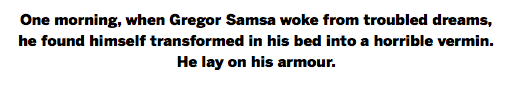
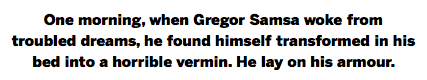
lune def 2

diff --git a/honoo---luna.html b/honoo---luna.html
@@ -13,7 +13,7 @@
   <!-- CSS -->
   <link rel="stylesheet" type="text/css" href="css/site_global.css?4202786373"/>
   <link rel="stylesheet" type="text/css" href="css/master_c-master.css?3801941747"/>
-  <link rel="stylesheet" type="text/css" href="css/honoo---luna.css?4144402783" id="pagesheet"/>
+  <link rel="stylesheet" type="text/css" href="css/honoo---luna.css?221671457" id="pagesheet"/>
   <!-- IE-only CSS -->
   <!--[if lt IE 9]>
   <link rel="stylesheet" type="text/css" href="css/nomq_preview_master_c-master.css?321525473"/>
@@ -297,21 +297,21 @@
       <div class="popup_anchor temp_no_id" data-orig-id="u17046popup">
        <div class="SlideShowContentPanel clearfix temp_no_id" data-orig-id="u17046"><!-- stack box -->
         <div class="SSSlide clip_frame grpelem temp_no_id" data-orig-id="u18558"><!-- image -->
-         <img class="block ImageInclude temp_no_id" data-src="images/foto7-crop-u185587.jpg" data-hidpi-src="images/foto7-crop-u18558_2x7.jpg" src="images/blank.gif" alt="" data-width="512" data-height="512" data-orig-id="u18558_img"/>
+         <img class="block ImageInclude temp_no_id" data-src="images/foto7-crop-u185587.jpg" data-hidpi-src="images/foto7-crop-u18558_2x7.jpg" src="images/blank.gif" alt="" data-width="427" data-height="427" data-orig-id="u18558_img"/>
         </div>
         <div class="SSSlide invi clip_frame grpelem temp_no_id" data-orig-id="u18675"><!-- image -->
-         <img class="block ImageInclude temp_no_id" data-src="images/foto8-crop-u186757.jpg" data-hidpi-src="images/foto8-crop-u18675_2x7.jpg" src="images/blank.gif" alt="" data-width="512" data-height="512" data-orig-id="u18675_img"/>
+         <img class="block ImageInclude temp_no_id" data-src="images/foto8-crop-u186757.jpg" data-hidpi-src="images/foto8-crop-u18675_2x7.jpg" src="images/blank.gif" alt="" data-width="427" data-height="427" data-orig-id="u18675_img"/>
         </div>
         <div class="SSSlide invi clip_frame grpelem temp_no_id" data-orig-id="u18200"><!-- image -->
-         <img class="block ImageInclude temp_no_id" data-src="images/foto5-crop-u182007.jpg" data-hidpi-src="images/foto5-crop-u18200_2x7.jpg" src="images/blank.gif" alt="" data-width="512" data-height="512" data-orig-id="u18200_img"/>
+         <img class="block ImageInclude temp_no_id" data-src="images/foto5-crop-u182007.jpg" data-hidpi-src="images/foto5-crop-u18200_2x7.jpg" src="images/blank.gif" alt="" data-width="427" data-height="427" data-orig-id="u18200_img"/>
         </div>
        </div>
       </div>
       <div class="popup_anchor temp_no_id" data-orig-id="u17030popup">
        <div class="SlideShowCaptionPanel clearfix temp_no_id" data-orig-id="u17030"><!-- stack box -->
-        <img class="SSSlideCaption grpelem temp_no_id temp_no_img_src" alt="One morning, when Gregor Samsa woke from troubled dreams, he found himself transformed in his bed into a horrible vermin. He lay on his armour." width="512" height="96" data-orig-src="images/u18618-47.png" data-hidpi-src="images/u18618-4_2x7.png" data-orig-id="u18618-4" src="images/blank.gif"/><!-- rasterized frame -->
-        <img class="SSSlideCaption invi grpelem temp_no_id temp_no_img_src" alt="Lorem ipsum dolor sit amet, consectetuer adipiscing elit. Aenean commodo ligula eget dolor. Aenean massa. Cum sociis natoque penatibus et magnis." width="512" height="96" data-orig-src="images/u18743-47.png" data-hidpi-src="images/u18743-4_2x7.png" data-orig-id="u18743-4" src="images/blank.gif"/><!-- rasterized frame -->
-        <img class="SSSlideCaption invi grpelem temp_no_id temp_no_img_src" alt="Sed ut perspiciatis unde omnis iste natus error sit voluptatem accusantium doloremque laudantium, totam rem aperiam, eaque ipsa quae ab illo inv." width="512" height="96" data-orig-src="images/u18260-47.png" data-hidpi-src="images/u18260-4_2x7.png" data-orig-id="u18260-4" src="images/blank.gif"/><!-- rasterized frame -->
+        <img class="SSSlideCaption grpelem temp_no_id temp_no_img_src" alt="One morning, when Gregor Samsa woke from troubled dreams, he found himself transformed in his bed into a horrible vermin. He lay on his armour." width="427" height="80" data-orig-src="images/u18618-47.png" data-hidpi-src="images/u18618-4_2x7.png" data-orig-id="u18618-4" src="images/blank.gif"/><!-- rasterized frame -->
+        <img class="SSSlideCaption invi grpelem temp_no_id temp_no_img_src" alt="Lorem ipsum dolor sit amet, consectetuer adipiscing elit. Aenean commodo ligula eget dolor. Aenean massa. Cum sociis natoque penatibus et magnis." width="427" height="80" data-orig-src="images/u18743-47.png" data-hidpi-src="images/u18743-4_2x7.png" data-orig-id="u18743-4" src="images/blank.gif"/><!-- rasterized frame -->
+        <img class="SSSlideCaption invi grpelem temp_no_id temp_no_img_src" alt="Sed ut perspiciatis unde omnis iste natus error sit voluptatem accusantium doloremque laudantium, totam rem aperiam, eaque ipsa quae ab illo inv." width="427" height="80" data-orig-src="images/u18260-47.png" data-hidpi-src="images/u18260-4_2x7.png" data-orig-id="u18260-4" src="images/blank.gif"/><!-- rasterized frame -->
        </div>
       </div>
       <div class="popup_anchor temp_no_id" data-orig-id="u17043-3popup">

diff --git a/css/honoo---luna.css b/css/honoo---luna.css
@@ -1,7 +1,7 @@
 .version.honoo___luna /* version checker */
 {
-	color: #0000F7;
-	background-color: #06915F;
+	color: #00000D;
+	background-color: #367021;
 }
 
 #page
@@ -892,14 +892,13 @@ body
 	#page
 	{
 		width: 576px;
-		min-height: 881.987px;
-		padding-bottom: 0px;
+		min-height: 882px;
 	}
 
 	#page_position_content
 	{
 		padding-top: 62px;
-		padding-bottom: 152px;
+		padding-bottom: 253px;
 		width: 0.01px;/* should not cover content below */
 	}
 
@@ -916,34 +915,26 @@ body
 
 	#slideshowu17029
 	{
-		height: 608px;
-		margin-left: 32px;
+		height: 507px;
+		margin-left: 74px;
 	}
 
-	#u17046
+	#u17046,#u18558,#u18675,#u18200
 	{
-		width: 512px;
-		height: 512px;
-		left: 1px;
-	}
-
-	#u18558,#u18675,#u18200
-	{
-		width: 512px;
-		height: 512px;
+		width: 427px;
+		height: 427px;
 	}
 
 	#u17030
 	{
-		width: 512px;
-		top: 512px;
-		left: 1px;
+		width: 427px;
+		top: 426px;
 	}
 
 	#u17043-3
 	{
-		width: 493px;
-		min-height: 492px;
+		width: 407px;
+		min-height: 406px;
 	}
 
 	#u16820
